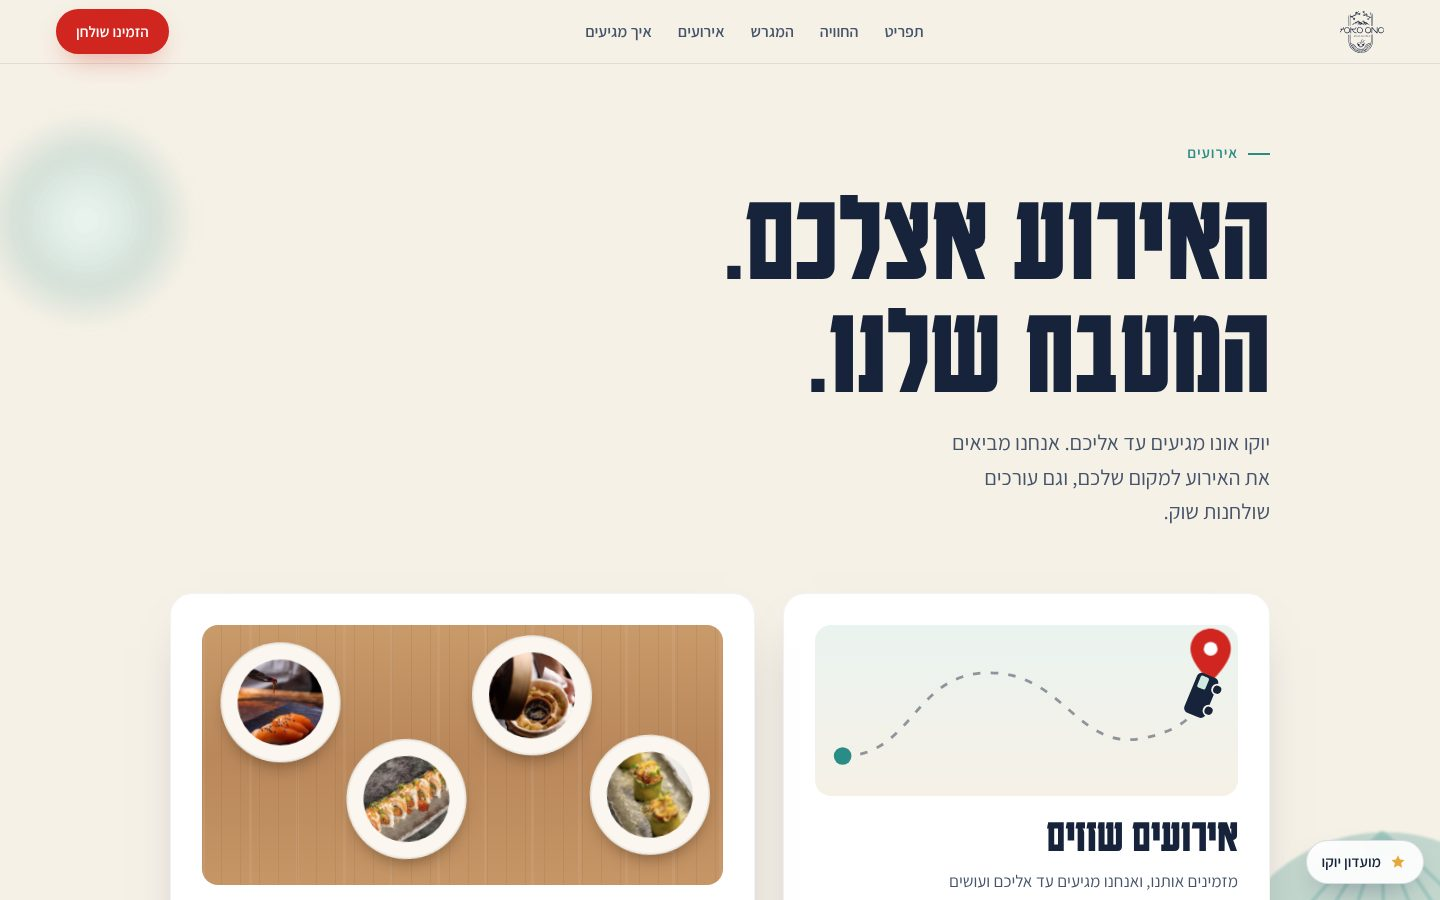
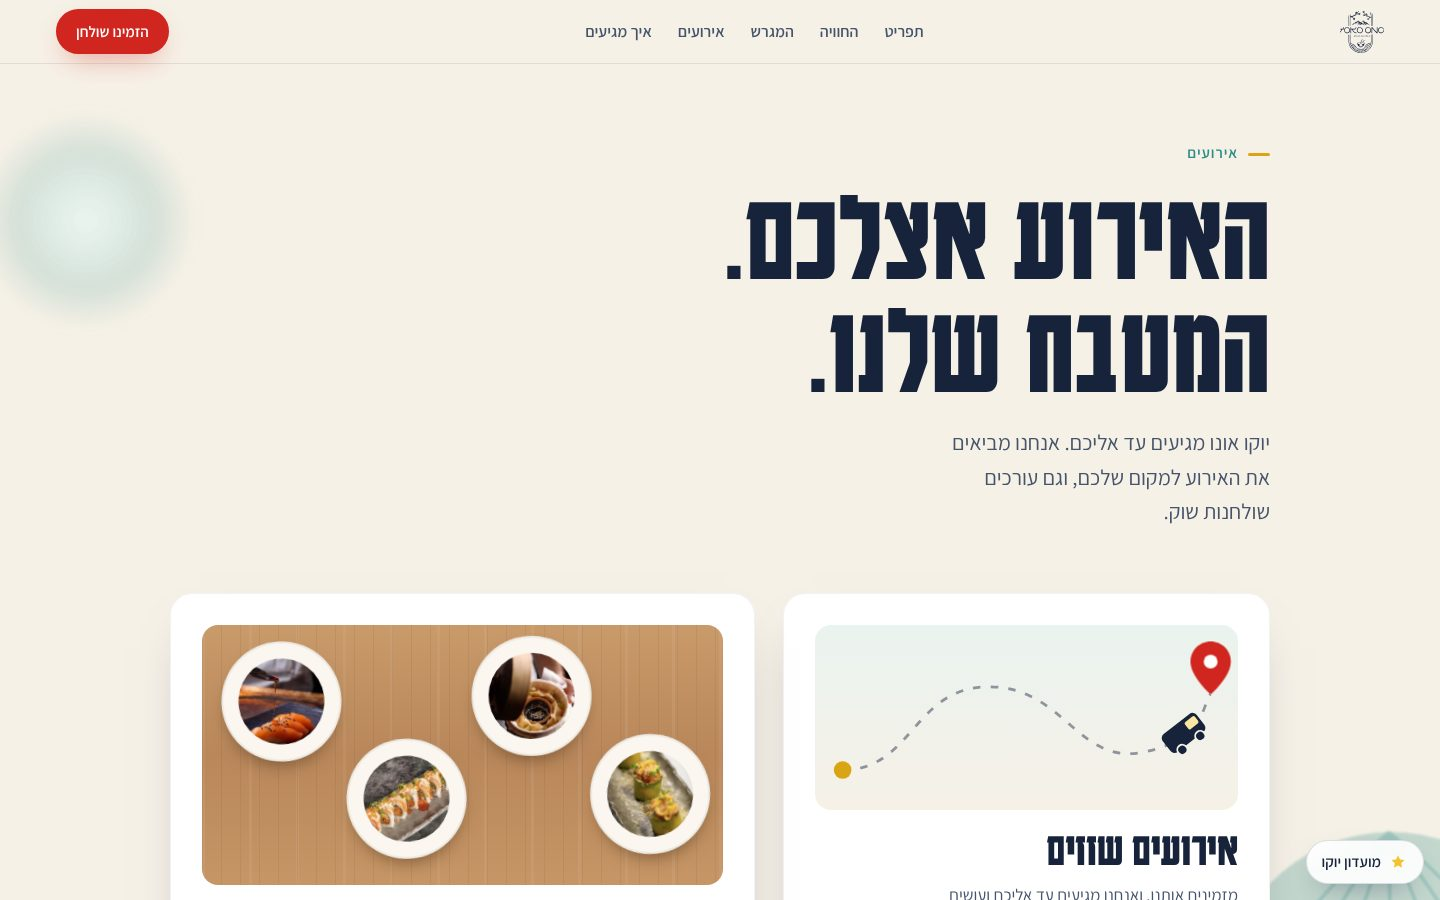
Yoko Ono v4: breeze v11 (yuzu accents, wind on the umbrellas) and the van stops before the pin
- breeze-v11.css copied unchanged, linked last after fresh-v10.css
- kit's updated events stylesheet served as events-v11.css (new name per the cache rule); events-v10.css removed
- guard OK; local iPhone 13, reduced motion and desktop checks clean

Claude-Session: https://claude.ai/code/session_018xzzWwMFgvBWSciGqzQpw2

diff --git a/yoko-ono-v4/assets/breeze-v11.css b/yoko-ono-v4/assets/breeze-v11.css
@@ -1,0 +1,42 @@
+/* YOKO ONO v11: two small fresh touches on top of v10. Load AFTER fresh-v10.css.
+   1. Yuzu: a citrus yellow in small accents only (never on buttons or long text).
+   2. Breeze: the paper umbrellas and lanterns move as if a light sea wind passes, in gusts. */
+
+:root{--yuzu:#f2c230;--yuzu-deep:#d9a514}
+::selection{background:#fbe7a1}
+
+/* Yuzu accents */
+.kicker::before{background:var(--yuzu-deep);height:3px;border-radius:2px}
+.club-btn svg{fill:var(--yuzu)}
+.club-panel::before{background:linear-gradient(90deg,var(--yuzu),#2a8c86)}
+.club-perks li::marker{color:var(--yuzu-deep)}
+.route .pin{fill:var(--yuzu-deep)}
+.route .van .win{fill:#fbe7a1}
+.grid-food.belt .frame:nth-child(4n+2){--rim:var(--yuzu)}
+.row::after{background:var(--yuzu-deep)}
+.section-close::before{content:"";position:absolute;width:min(46vw,420px);aspect-ratio:1;inset-inline-end:-8vw;top:8%;border-radius:50%;
+  background:radial-gradient(circle,rgba(242,194,48,.28),rgba(242,194,48,0) 68%);pointer-events:none}
+.dice-result.win{text-shadow:0 2px 0 rgba(242,194,48,.55)}
+
+/* Breeze: gusts, not a metronome. Each element gets its own rhythm from the --f and --d the ambient script sets. */
+.ambient .a-umb svg{animation:a-breeze calc(var(--f,22s) * .6) cubic-bezier(.45,.05,.4,1) var(--d,0s) infinite}
+.ambient .a-lan svg{animation:a-lan-breeze calc(var(--f,6s) * 1.4) cubic-bezier(.45,.05,.4,1) var(--d,0s) infinite}
+@keyframes a-breeze{
+  0%  {transform:translateX(0) rotate(-1.5deg)}
+  18% {transform:translateX(16px) rotate(3.5deg)}
+  32% {transform:translateX(9px) rotate(.5deg)}
+  50% {transform:translateX(22px) rotate(4deg)}
+  68% {transform:translateX(6px) rotate(-1deg)}
+  84% {transform:translateX(12px) rotate(2deg)}
+  100%{transform:translateX(0) rotate(-1.5deg)}
+}
+@keyframes a-lan-breeze{
+  0%  {transform:rotate(-2deg)}
+  20% {transform:rotate(7deg)}
+  34% {transform:rotate(1deg)}
+  52% {transform:rotate(8.5deg)}
+  70% {transform:rotate(-1deg)}
+  86% {transform:rotate(4deg)}
+  100%{transform:rotate(-2deg)}
+}
+@media (prefers-reduced-motion:reduce){.ambient .a-umb svg,.ambient .a-lan svg{animation:none}}

diff --git a/yoko-ono-v4/assets/events-v11.css b/yoko-ono-v4/assets/events-v11.css
@@ -8,7 +8,7 @@
 
 /* The route: a dashed road, the van drives from your start to the red pin, once, when the card enters */
 .route{background:linear-gradient(180deg,#eaf3ef,#f6f1e7);border-radius:16px;padding:10px;margin-bottom:6px}
-.route svg{width:100%;height:auto;overflow:visible}
+.route svg{width:100%;height:auto;overflow:visible;margin-top:14px}
 .route .road{fill:none;stroke:#16233b;stroke-width:2.2;stroke-dasharray:6 8;opacity:.45}
 .route .pin{fill:#2a8c86}
 .route .pin-b path{fill:#d1261f}
@@ -19,7 +19,7 @@
 .route .van{offset-path:path("M14 96C70 96 70 30 130 30S200 92 252 82 300 40 306 36");offset-rotate:auto;offset-distance:0%}
 .event-card.in .route .van{animation:drive 3.4s cubic-bezier(.45,.05,.3,1) .3s both}
 .event-card.in .route .pin-b{animation:drop .5s cubic-bezier(.2,.9,.3,1.4) 3.5s both}
-@keyframes drive{to{offset-distance:96%}}
+@keyframes drive{to{offset-distance:89%}}
 @keyframes drop{from{transform:translate(306px,10px);opacity:0}to{transform:translate(306px,36px);opacity:1}}
 
 /* The market table: wood seen from above, round plates of real food, a slow drift as if being passed around */
@@ -39,5 +39,5 @@
 @media (max-width:820px){.events-grid{grid-template-columns:1fr}}
 @media (prefers-reduced-motion:reduce){
   .event-card.in .route .van,.event-card.in .route .pin-b,.event-card.in .dish{animation:none}
-  .route .van{offset-distance:96%}
+  .route .van{offset-distance:89%}
 }

diff --git a/yoko-ono-v4/index.html b/yoko-ono-v4/index.html
@@ -20,9 +20,10 @@
 <link rel="stylesheet" href="assets/ambient-v7.css">
 <link rel="stylesheet" href="assets/games-v9.css">
 <link rel="stylesheet" href="assets/conveyor-v8.css">
-<link rel="stylesheet" href="assets/events-v10.css">
+<link rel="stylesheet" href="assets/events-v11.css">
 <link rel="stylesheet" href="assets/club-v10.css">
 <link rel="stylesheet" href="assets/fresh-v10.css">
+<link rel="stylesheet" href="assets/breeze-v11.css">
 <script src="assets/head-v6.js"></script>
 <script type="application/ld+json">
 {

diff --git a/review/yoko-ono-v4/HANDOVER.md b/review/yoko-ono-v4/HANDOVER.md
@@ -35,6 +35,9 @@ Facts used: events that come to the client, market tables, events WhatsApp = the
 Beyond the README: `fresh-v10.css` was also added to `privacy.html` and `accessibility.html` (after `site-v6.css`) so the draft inner pages match the light theme when opened from the footer. Remove that one line on each page if the owner prefers.
 Checked locally and on the live link at iPhone 13 and 1440×900: zero console errors, no horizontal overflow, the panel opens and closes, the van and plates animate.
 
+## Breeze v11 (6 November 2026, evening)
+`breeze-v11.css` from the same kit folder, linked right after `fresh-v10.css` as the LAST stylesheet: yuzu yellow in small accents only (kicker dash, club star and panel bar, the route's start pin, one plate rim on the belt, the visit-row underline, a sun glow in the closing section, text selection; buttons stay red) and a gust animation on the background umbrellas and lanterns, off under reduced motion. The kit's updated events stylesheet (the van now stops just before the red pin) is served as `assets/events-v11.css`, byte for byte the kit's `events-v10.css`, because of the cache rule above: a changed asset gets a new name, or phones keep the old one for a year. `events-v10.css` was removed from the site.
+
 ## Switches the owner decides
 - **Menu buttons** go to Wolt until the menu site is confirmed. One line in `assets/site-v6.js`: `MENU_SITE_CONFIRMED = false` → `true`.
 - **Opening hours** are shown with the line "לפי מערכת ההזמנות. כדאי לוודא בטלפון, במיוחד בחגים." Edit them in `index.html` under "שעות פעילות" once confirmed.
